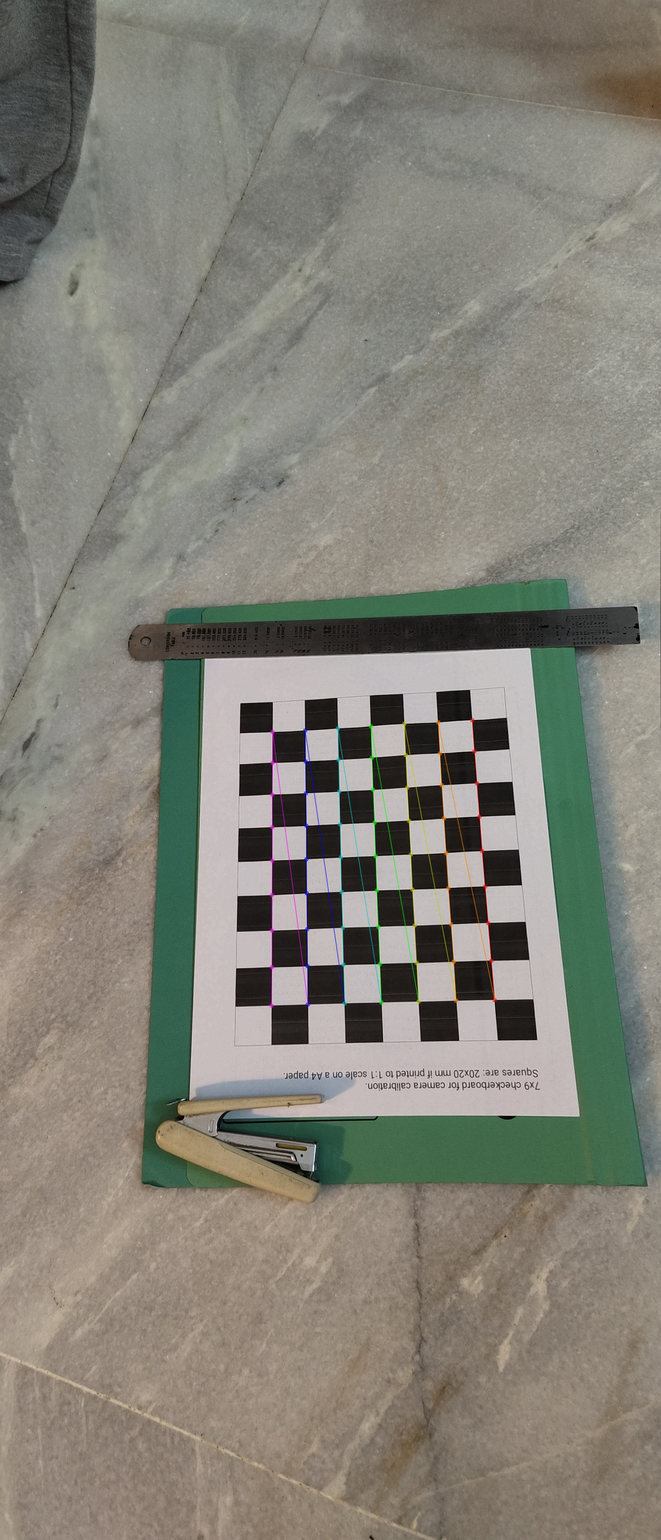
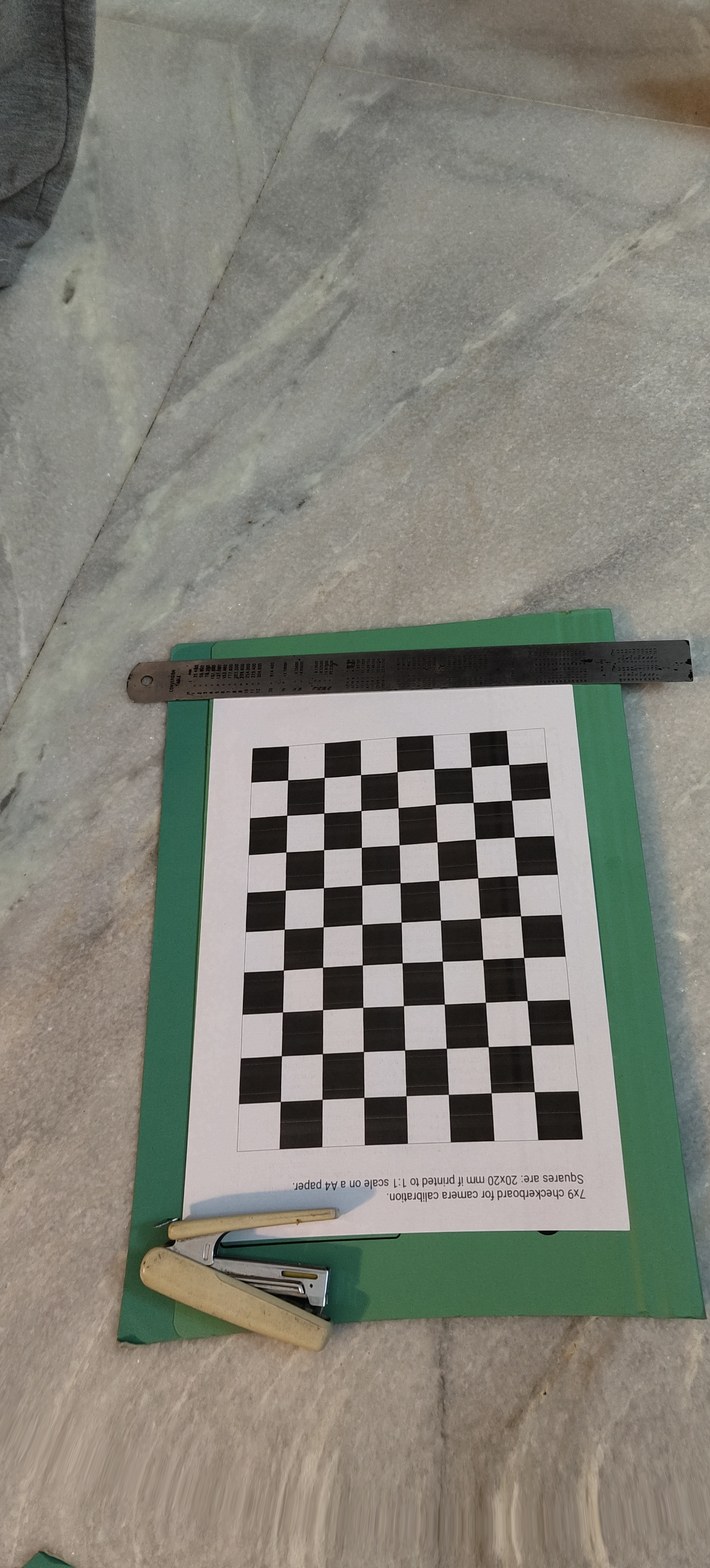
Added code for Q1.5
On branch main
Your branch is up to date with 'origin/main'.

Changes to be committed:
	modified:   error.png
	modified:   extrinsics.csv
	modified:   main.py
	new file:   reproj/1.jpg
	new file:   reproj/10.jpg
	new file:   reproj/11.jpg
	new file:   reproj/12.jpg
	new file:   reproj/13.jpg
	new file:   reproj/14.jpg
	new file:   reproj/15.jpg
	new file:   reproj/16.jpg
	new file:   reproj/17.jpg
	new file:   reproj/18.jpg
	new file:   reproj/19.jpg
	new file:   reproj/2.jpg
	new file:   reproj/20.jpg
	new file:   reproj/21.jpg
	new file:   reproj/22.jpg
	new file:   reproj/23.jpg
	new file:   reproj/24.jpg
	new file:   reproj/25.jpg
	new file:   reproj/26.jpg
	new file:   reproj/27.jpg
	new file:   reproj/28.jpg
	new file:   reproj/29.jpg
	new file:   reproj/3.jpg
	new file:   reproj/4.jpg
	new file:   reproj/5.jpg
	new file:   reproj/6.jpg
	new file:   reproj/7.jpg
	new file:   reproj/8.jpg
	new file:   reproj/9.jpg
	modified:   undistorted/1.jpg
	modified:   undistorted/10.jpg
	modified:   undistorted/11.jpg
	modified:   undistorted/12.jpg
	modified:   undistorted/13.jpg
	modified:   undistorted/14.jpg
	modified:   undistorted/15.jpg
	modified:   undistorted/16.jpg
	modified:   undistorted/17.jpg
	modified:   undistorted/18.jpg
	modified:   undistorted/19.jpg
	modified:   undistorted/2.jpg
	modified:   undistorted/20.jpg
	modified:   undistorted/21.jpg
	modified:   undistorted/22.jpg
	modified:   undistorted/23.jpg
	modified:   undistorted/24.jpg
[…]

diff --git a/Q1/main.py b/Q1/main.py
@@ -94,16 +94,15 @@ print("============================================")
 
 print("Estimated Distortion coefficients:", dist.reshape(-1))
 
-for img, fname in zip(images, images_with_corners):
+for fname in images_with_corners:
+    # Read the image
+    img = cv2.imread(fname)
     h, w = img.shape[:2]
-    
     # Refine the camera matrix
-    newcameramtx, roi = cv2.getOptimalNewCameraMatrix(int_mtx, dist, (w,h), 1, (w,h))
+    newcameramtx, _ = cv2.getOptimalNewCameraMatrix(int_mtx, dist, (w,h), 0, (w,h))
     
     # Undistort and save the image
     dst = cv2.undistort(img, int_mtx, dist, None, newcameramtx)
-    x, y, w, h = roi
-    dst = dst[y:y+h, x:x+w]
     output_image_name = fname.replace("images", "undistorted")
     cv2.imwrite(output_image_name, dst)
 print("============================================")
@@ -135,3 +134,9 @@ plt.title("Re-projection error for various images")
 plt.gcf().set_figwidth(10)
 plt.savefig("error.png")
 print("============================================")
+
+for img, corners, reproj_corners, fname in zip(images, imgpoints, reproj_corners, images_with_corners):
+    reproj_name = fname.replace("images", "reproj")
+    img = cv2.drawChessboardCorners(img, CHECKERBOARD, corners, True)
+    img = cv2.drawChessboardCorners(img, CHECKERBOARD, reproj_corners, True)
+    cv2.imwrite(reproj_name, img)
